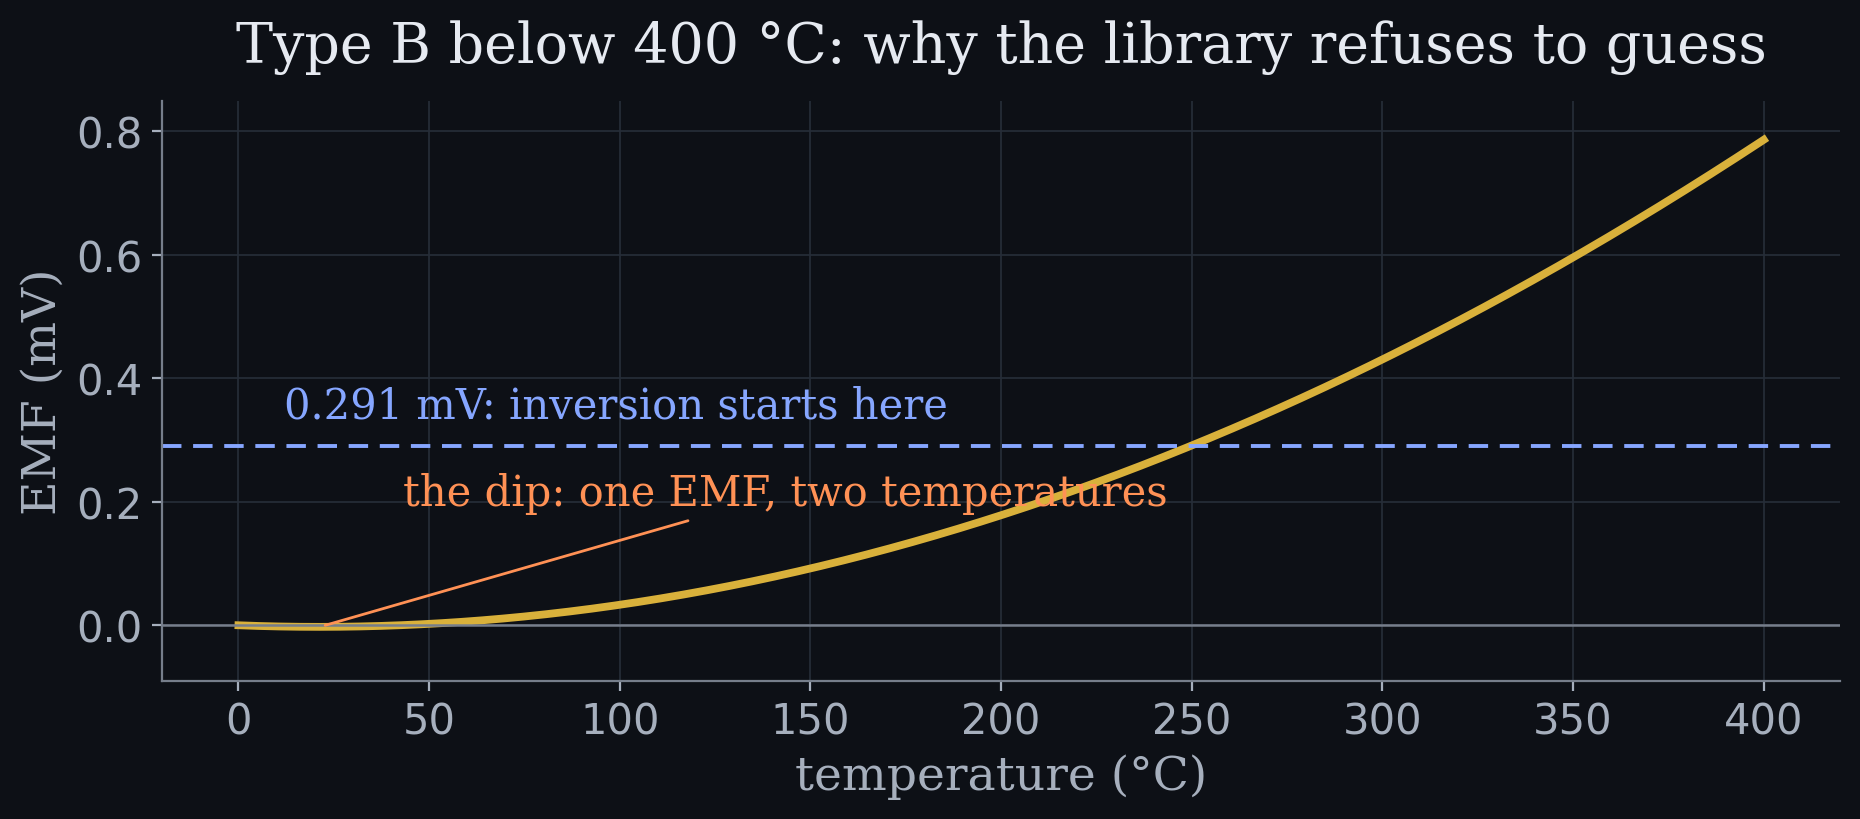
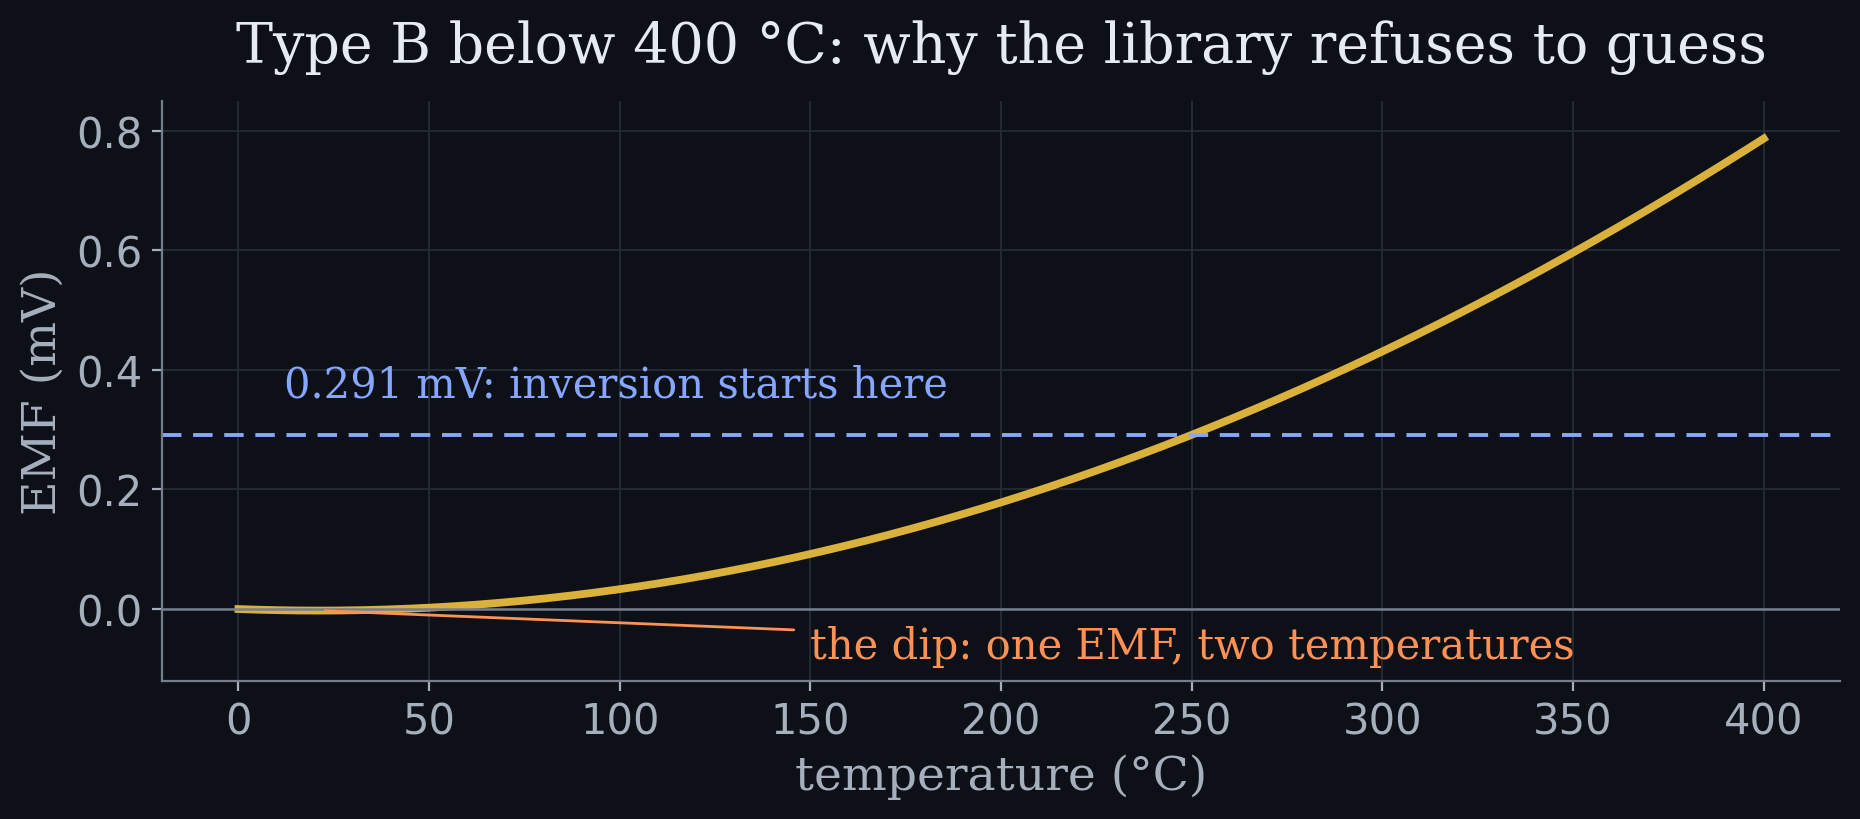
Figures: zero-contact label placement, verified at full resolution
Every label now sits where neither the letter nor its leader touches any
curve: T's label rides the widening wedge between the J and K curves with
a leader through empty space, R, S and B form a spaced column in the
right margin with short leaders to their own curve tips, and the type B
dip caption moved to the empty strip below the zero line with its leader
running under the curve. Verified with one-to-one crops of every labeled
region in both themes before this commit.

diff --git a/docs/make_figures.py b/docs/make_figures.py
@@ -62,12 +62,15 @@ def style_axes(ax, pal):
     ax.set_axisbelow(True)
 
 
-# Hand-placed end-label offsets in points: R and S endpoints are 2.4 mV
-# apart and T ends just beneath the J curve, so automatic placement collides.
-LABEL_OFFSETS = {
-    "E": (8, 4), "J": (8, 0), "K": (8, 0), "N": (8, -4),
-    "R": (8, 12), "S": (8, -2), "B": (8, -6),
-}
+# Label placement, chosen so that no letter touches any curve and no leader
+# line crosses any curve. E, J, K and N have clear space at their endpoints.
+# T's endpoint is boxed in by E, J, K and N, but the wedge between J and K
+# widens to the right, so its label sits inside that wedge with a leader
+# running back down the wedge. R, S and B end within 7.3 mV of each other,
+# too tight for three 17-point letters, so they form a column in the empty
+# right margin with short leaders to their endpoints.
+END_OFFSETS = {"E": (8, 4), "J": (8, 0), "K": (8, 0), "N": (8, -4)}
+PLACED = {"T": (560, 26.9), "R": (1850, 27.0), "S": (1850, 18.4), "B": (1860, 9.5)}
 
 
 def reference_functions(theme: str, pal: dict) -> None:
@@ -77,22 +80,22 @@ def reference_functions(theme: str, pal: dict) -> None:
     for letter in ["E", "J", "K", "N", "T", "S", "R", "B"]:
         ts, es = curve(TYPES[letter])
         ax.plot(ts, es, color=SERIES[theme][letter], linewidth=2.4)
-        if letter == "T":
-            # The 400 C corridor is packed (E, J, K all pass close by), so
-            # T gets a short leader into the clear gap between K and N.
-            ax.annotate("T", (ts[-1], es[-1]), xytext=(24, -34),
+        if letter in END_OFFSETS:
+            ax.annotate(letter, (ts[-1], es[-1]),
+                        xytext=END_OFFSETS[letter],
                         textcoords="offset points",
                         color=SERIES[theme][letter], fontsize=17,
-                        fontweight="bold", va="center", family="serif",
+                        fontweight="bold", va="center", family="serif")
+        else:
+            ax.annotate(letter, (ts[-1], es[-1]), xytext=PLACED[letter],
+                        textcoords="data",
+                        color=SERIES[theme][letter], fontsize=17,
+                        fontweight="bold", va="center", ha="left",
+                        family="serif",
                         arrowprops={"arrowstyle": "-",
                                     "color": SERIES[theme][letter],
-                                    "lw": 1.0, "shrinkB": 3})
-            continue
-        ax.annotate(letter, (ts[-1], es[-1]), xytext=LABEL_OFFSETS[letter],
-                    textcoords="offset points", color=SERIES[theme][letter],
-                    fontsize=17, fontweight="bold", va="center",
-                    family="serif")
-    ax.set_xlim(-300, 1960)
+                                    "lw": 0.9, "shrinkA": 3, "shrinkB": 3})
+    ax.set_xlim(-300, 1990)
     ax.set_ylim(-13, 85)
     ax.set_xlabel("temperature (\N{DEGREE SIGN}C)", color=pal["ink2"], fontsize=17, family="serif")
     ax.set_ylabel("EMF (mV, 0 \N{DEGREE SIGN}C reference)", color=pal["ink2"], fontsize=17, family="serif")
@@ -120,16 +123,20 @@ def type_b_dip(theme: str, pal: dict) -> None:
     inv_lo, _ = TypeB.invertible_emf_range
     ax.axhline(inv_lo, color=pal["ultra"], linewidth=1.4, linestyle=(0, (5, 3)))
     ax.axhline(0.0, color=pal["ink3"], linewidth=0.9)
+    # Placement: the threshold caption owns the empty upper-left rectangle
+    # above the dashed line; the dip caption owns the empty strip below the
+    # zero line, with a leader that runs entirely under the curve.
     ax.annotate("0.291 mV: inversion starts here",
-                (12, inv_lo), xytext=(0, 10), textcoords="offset points",
+                (12, inv_lo), xytext=(0, 14), textcoords="offset points",
                 ha="left", color=pal["ultra"], fontsize=15, family="serif")
     tmin = min(range(len(es)), key=lambda i: es[i])
     ax.annotate("the dip: one EMF, two temperatures",
-                (ts[tmin], es[tmin]), xytext=(30, 44),
-                textcoords="offset points", color=pal["signal"], fontsize=15,
-                family="serif",
-                arrowprops={"arrowstyle": "-", "color": pal["signal"], "lw": 1.0})
-    ax.set_ylim(-0.09, 0.85)
+                (ts[tmin], es[tmin]), xytext=(150, -0.062),
+                textcoords="data", ha="left", va="center",
+                color=pal["signal"], fontsize=15, family="serif",
+                arrowprops={"arrowstyle": "-", "color": pal["signal"],
+                            "lw": 1.0, "shrinkA": 4, "shrinkB": 2})
+    ax.set_ylim(-0.12, 0.85)
     ax.set_xlabel("temperature (\N{DEGREE SIGN}C)", color=pal["ink2"], fontsize=17, family="serif")
     ax.set_ylabel("EMF (mV)", color=pal["ink2"], fontsize=17, family="serif")
     ax.set_title("Type B below 400 \N{DEGREE SIGN}C: why the library refuses to guess",
